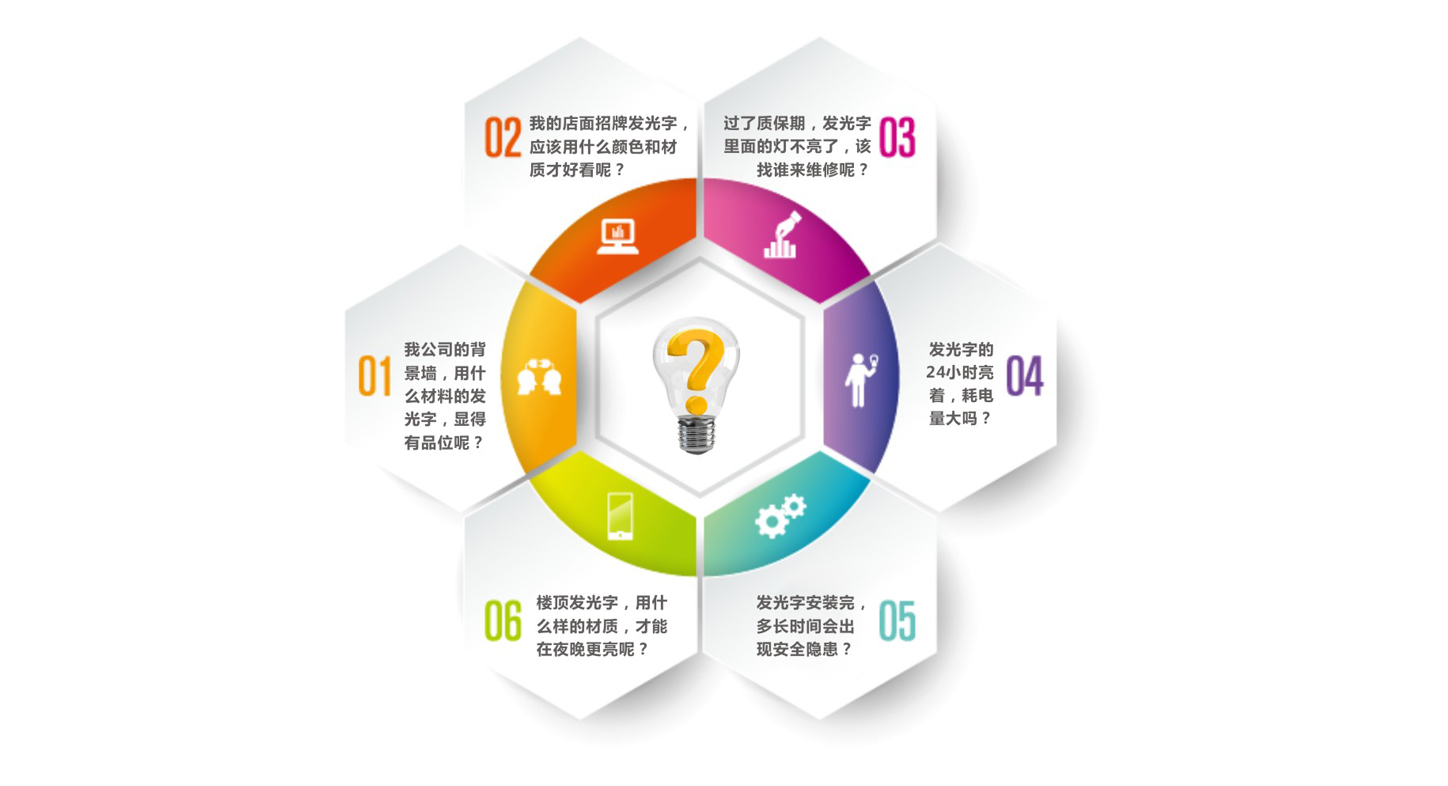
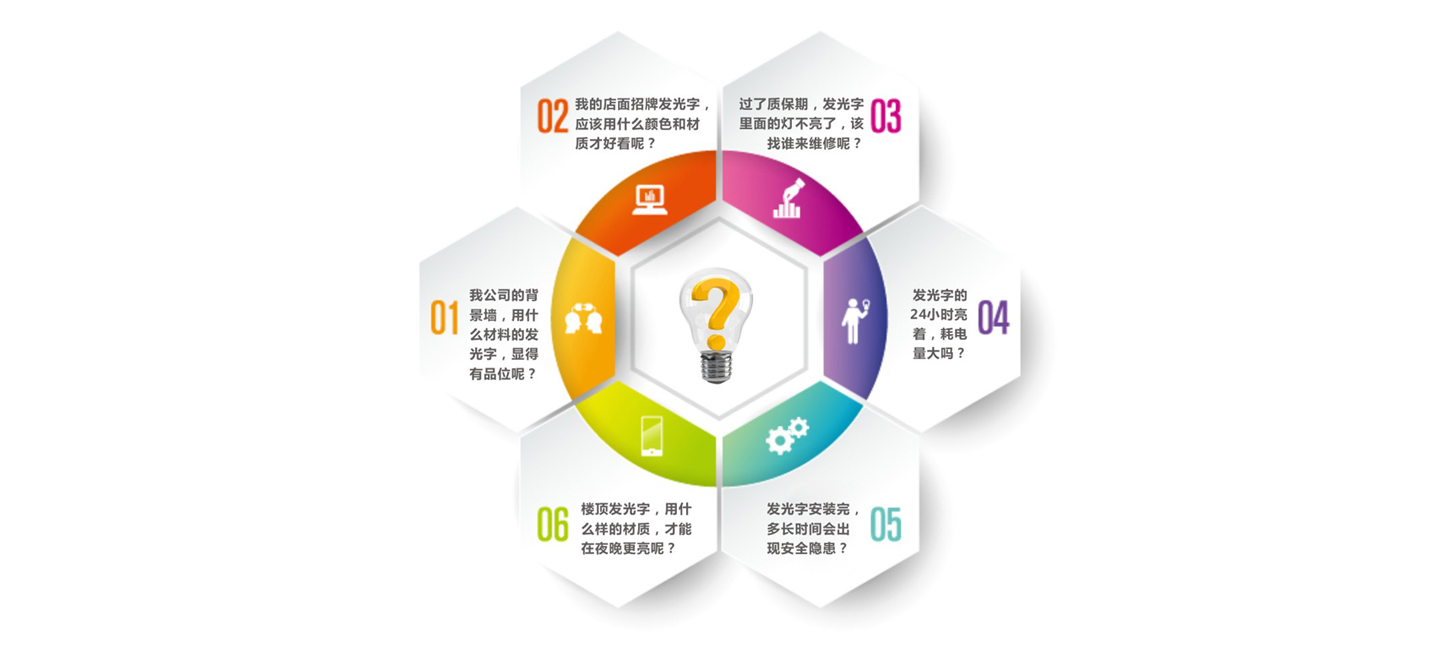
modify201612081052

diff --git a/SunShine.Web/Css/Bootstrap/home.css b/SunShine.Web/Css/Bootstrap/home.css
@@ -894,3 +894,5 @@ ul.thirdLevel {
     text-align:left;
     line-height:24px;
     }
+
+    .kanshi_waiceng{width:1439px;height:1391px;margin:0px auto;background:url(../../Images/home/xuanchuan_2.jpg)}
